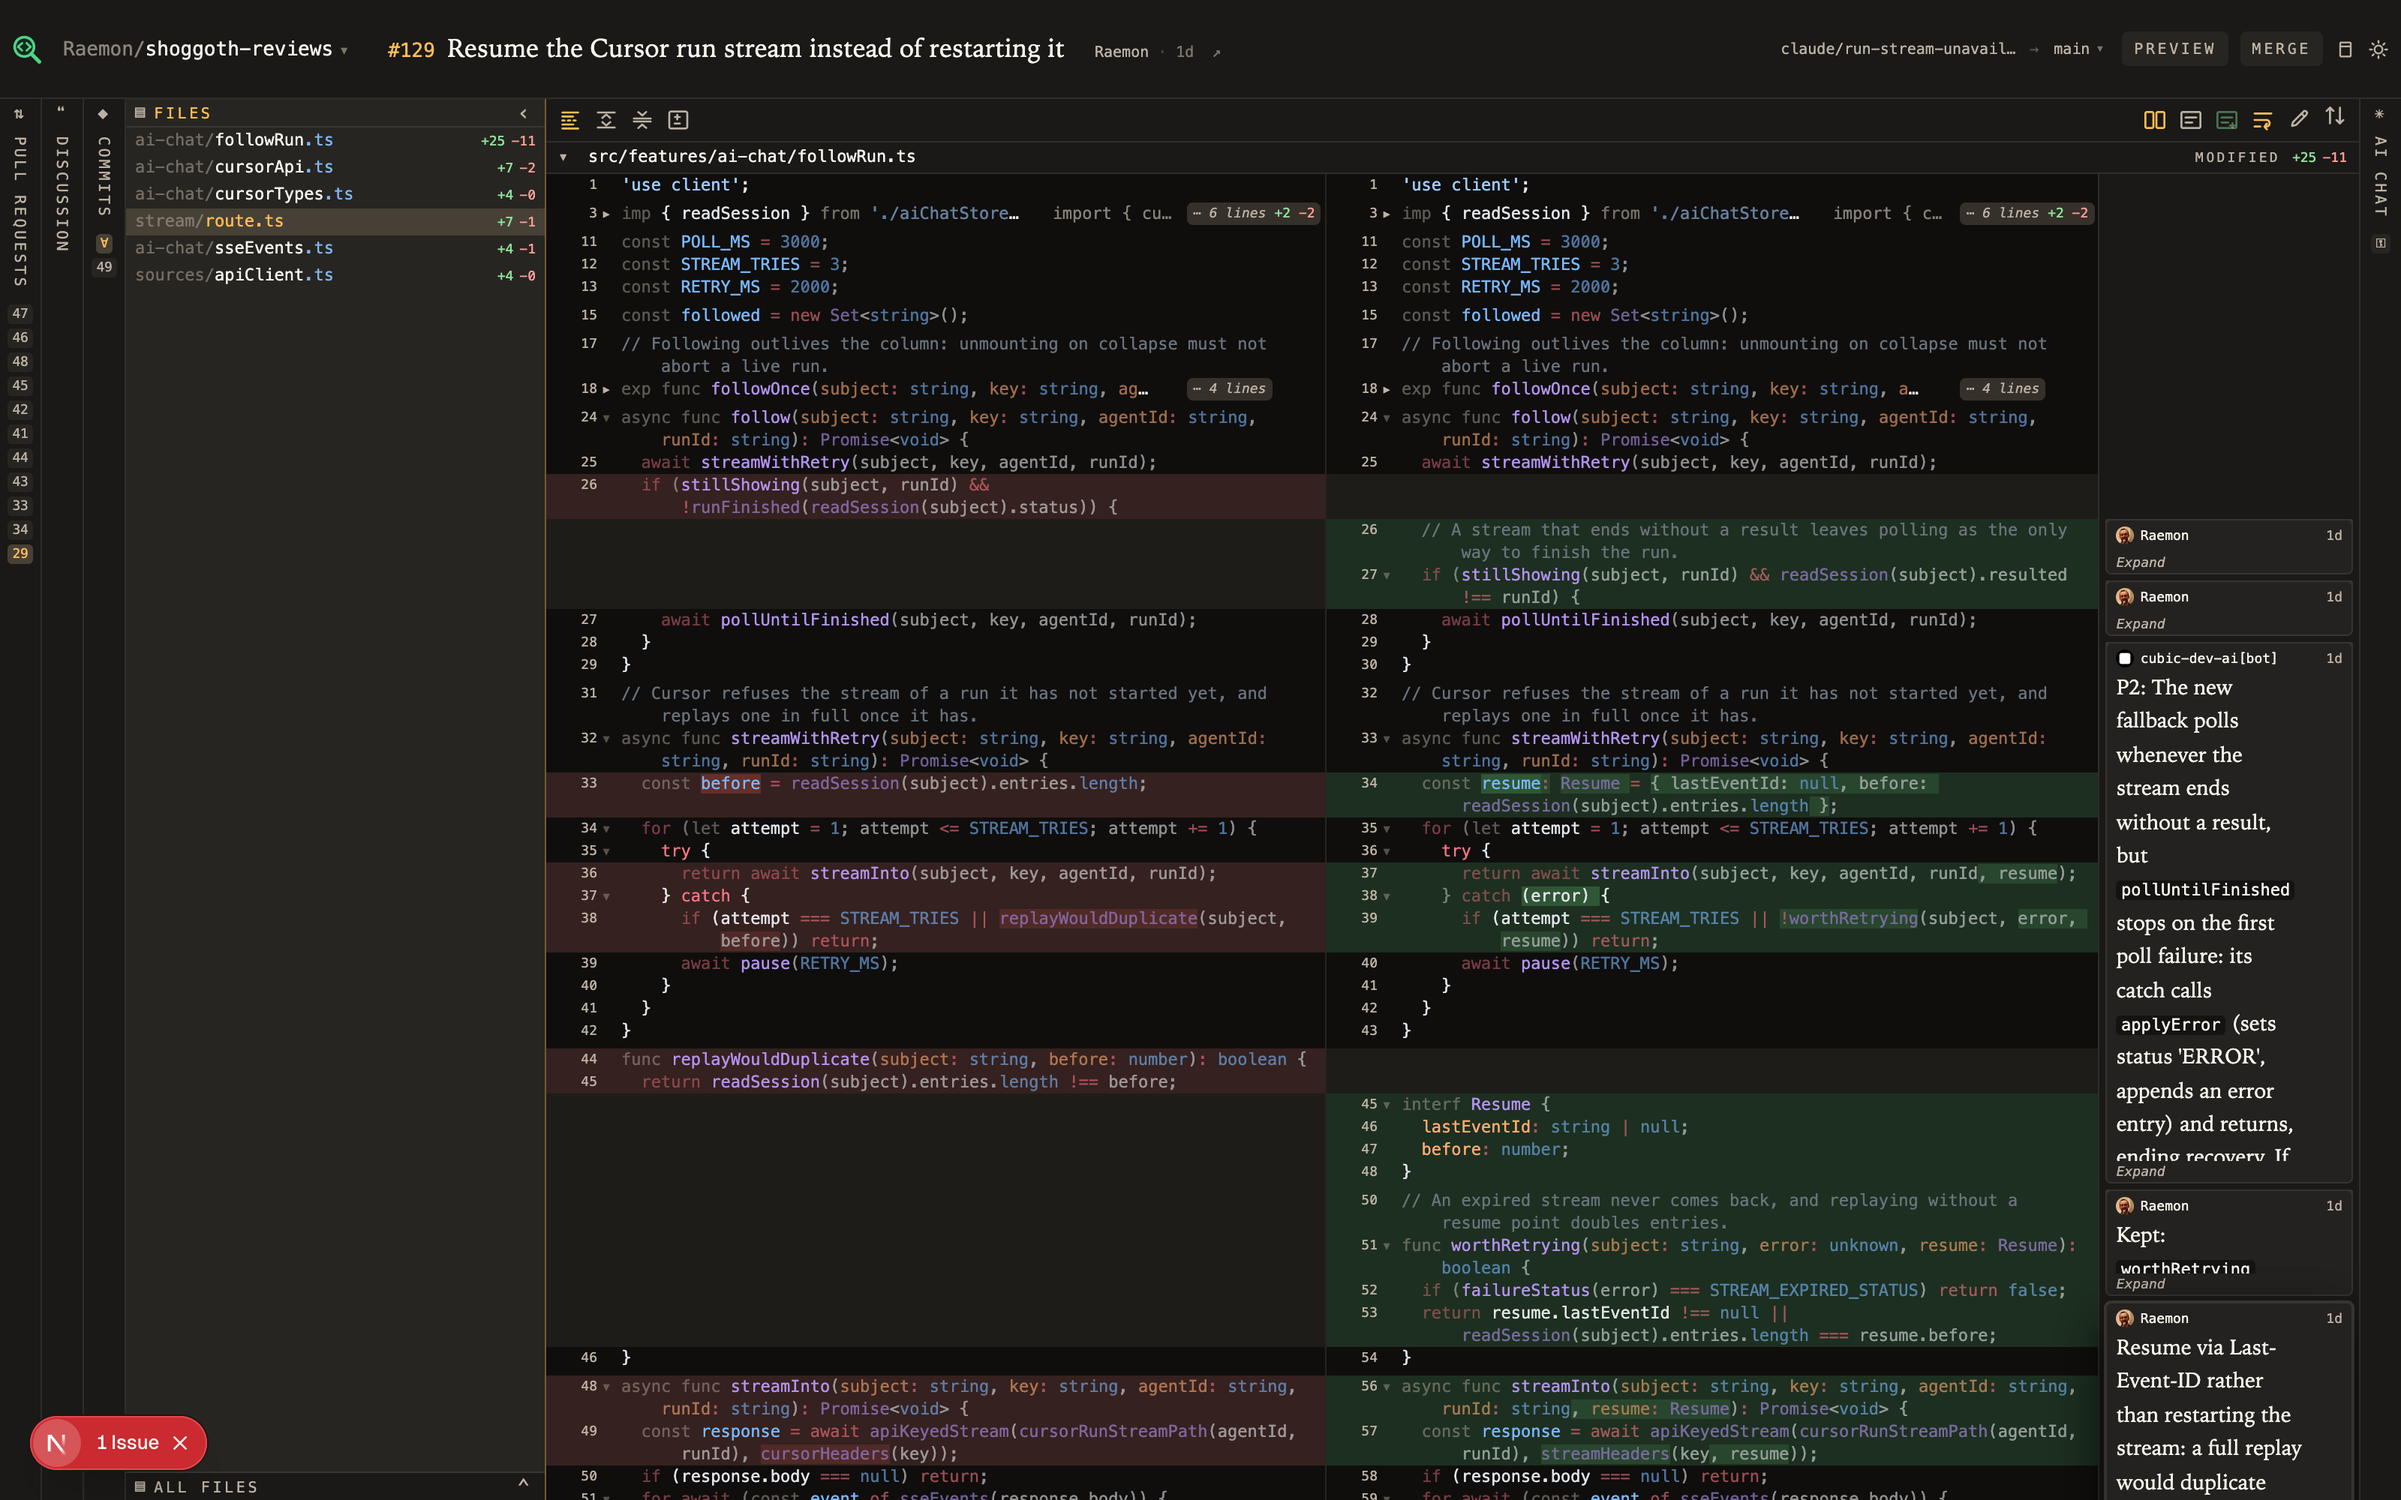
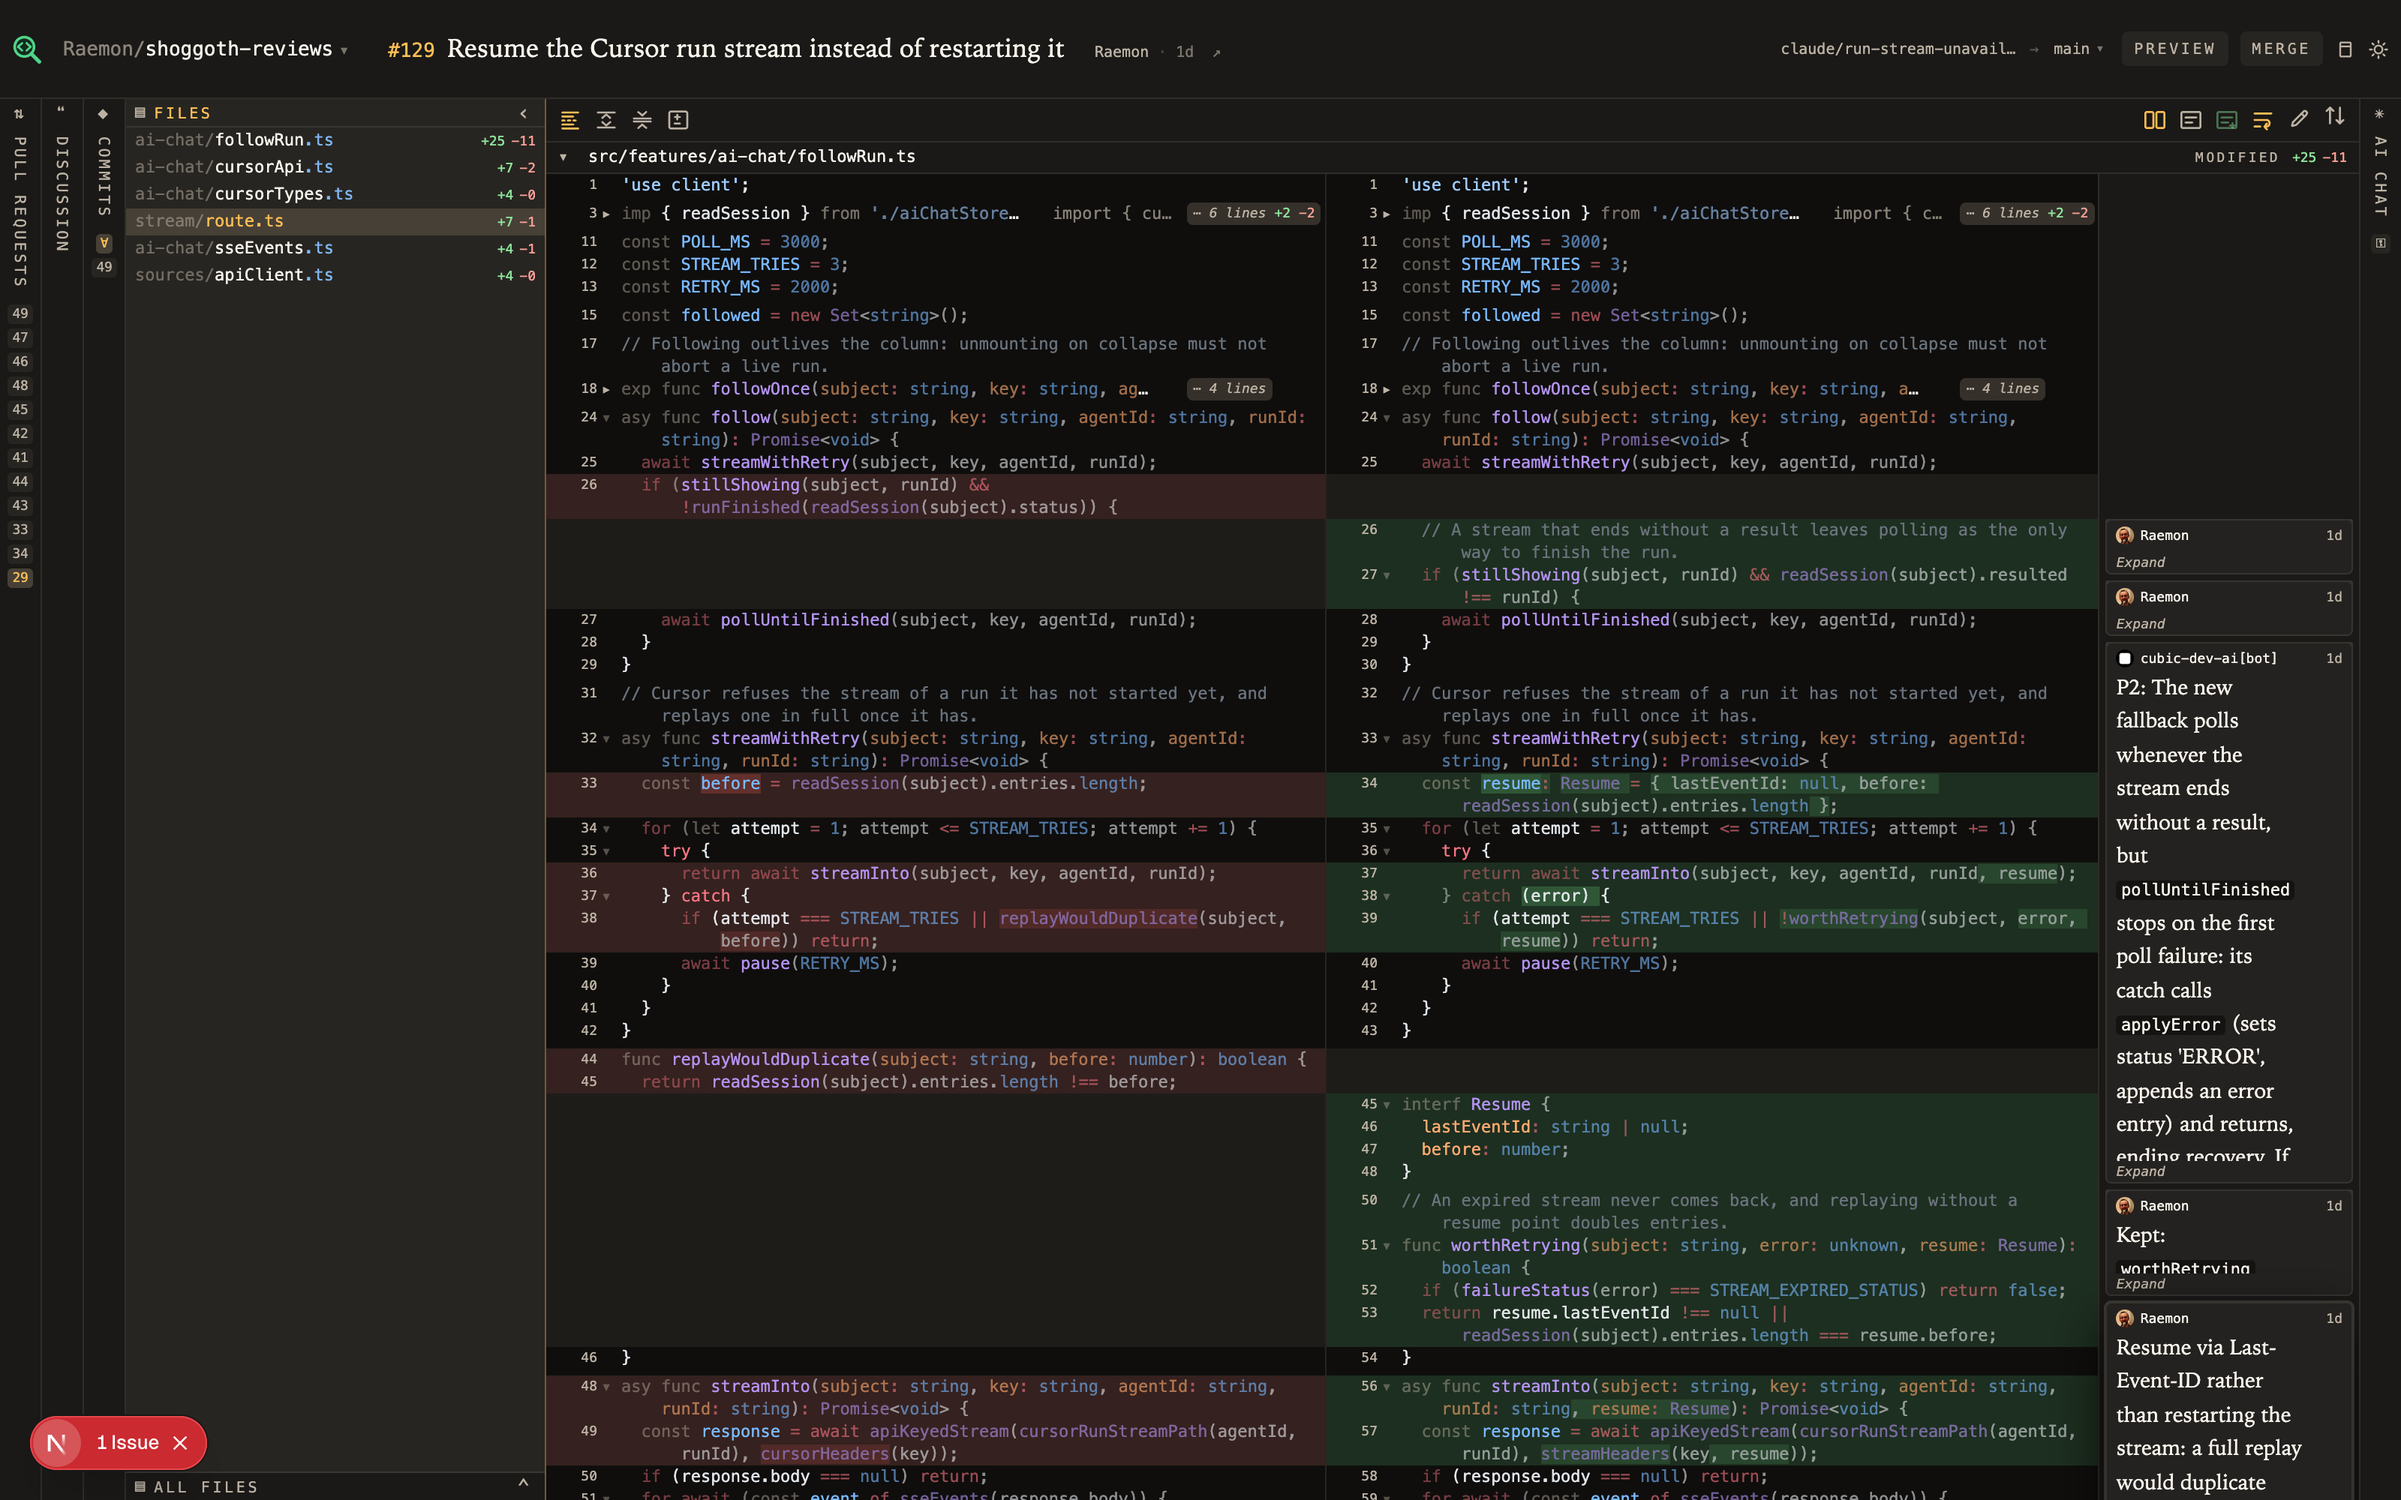
Abbreviate async as asy

diff --git a/src/features/pull-requests/keywordAbbreviations.ts b/src/features/pull-requests/keywordAbbreviations.ts
@@ -1,7 +1,7 @@
 import type { CodeSegment } from './codeSegments';
 
 const SHORT: Record<string, string> = {
-  export: 'exp', import: 'imp', function: 'func', interface: 'interf', default: 'def', abstract: 'abs',
+  export: 'exp', import: 'imp', function: 'func', async: 'asy', interface: 'interf', default: 'def', abstract: 'abs',
   implements: 'impl', extends: 'ext', namespace: 'namesp', readonly: 'readon', private: 'priv',
   protected: 'prot', public: 'pub', static: 'stat', declare: 'decl', constructor: 'constr',
   package: 'pkg', module: 'mod', defmodule: 'defmod', defmacro: 'defmac', internal: 'intern',
